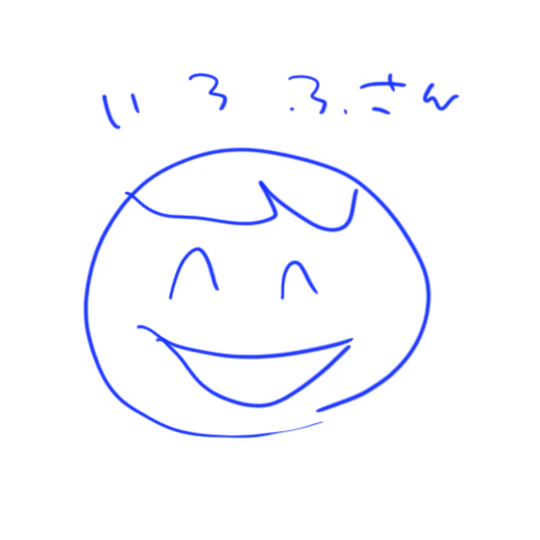
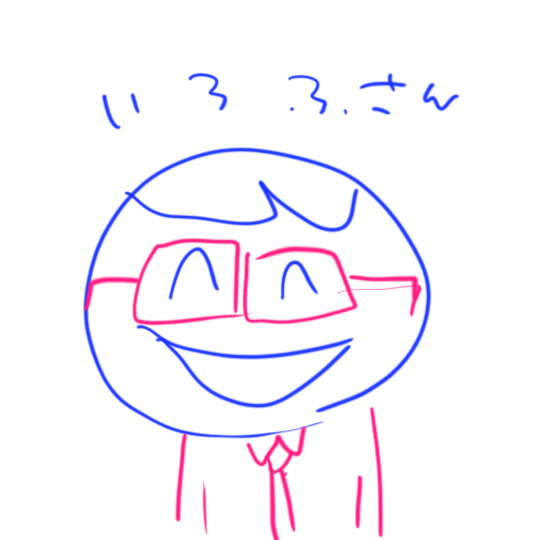
いろふさんのプロフィール画像を追加した

diff --git a/index.html b/index.html
@@ -60,7 +60,6 @@
                     <article>
                         <h3>スピーカー</h3>
                         <div class="speaker">
-                            <!-- TODO : プロフィール画像を受け取ったら更新する -->
                             <img src="images/speaker1.png" alt="" class="image"/>
                             <div class="inner">
                                 <h4>いろふさん</h4>
@@ -70,7 +69,6 @@
                             </div>
                         </div>
                         <div class="speaker">
-                            <!-- TODO : プロフィール画像を受け取ったら更新する -->
                             <img src="images/speaker2.png" alt="" class="image"/>
                             <div class="inner">
                                 <h4>うらがみさん</h4>
